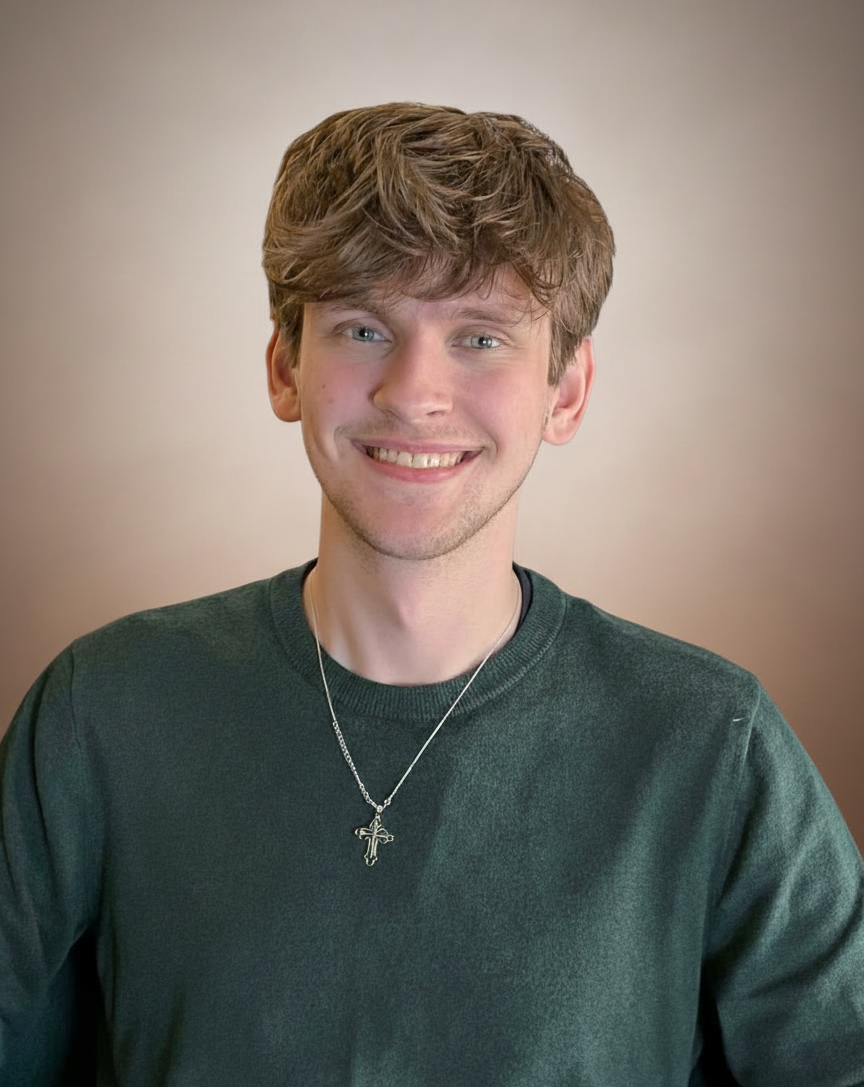
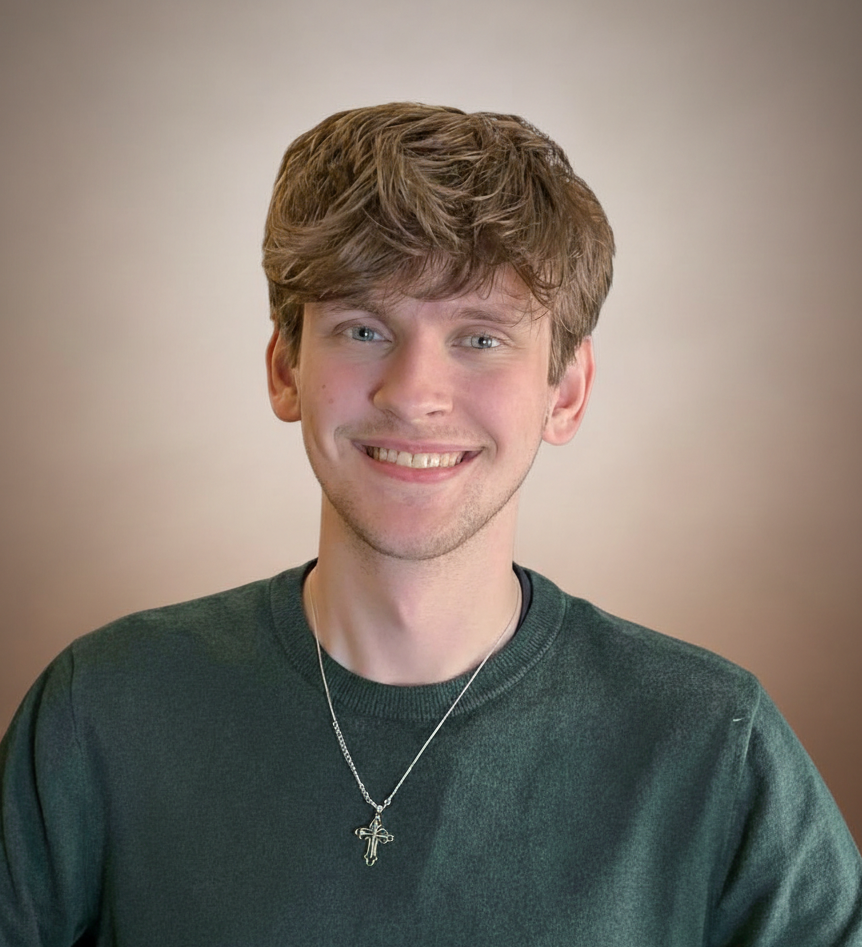
font and other stuff

Changed region(s): [[0.0, 0.0919, 1.0, 1.0], [0.1508, 0.9187, 0.2111, 1.0], [0.3921, 0.9799, 0.4223, 1.0]]

diff --git a/website_files/main.css b/website_files/main.css
@@ -1,4 +1,3 @@
-@import url('https://fonts.googleapis.com/css2?family=Noto+Sans:wght@300;400;500;600;700&family=Roboto:wght@300;400;500;700&display=swap');
 
 /* ============================================
    GLOBAL RESET & BASE STYLES
@@ -14,7 +13,7 @@ body, h1, h2, h3, h4, h5, h6, p, blockquote, pre, hr, dl, dd, ol, ul, figure {
 }
 
 body {
-    font-family: "Noto Sans", "Roboto", sans-serif;
+    font-family: "Segoe UI", system-ui, -apple-system, BlinkMacSystemFont, "Helvetica Neue", Arial, sans-serif;
     font-size: 16px;
     line-height: 1.6;
     font-weight: 300;
@@ -98,7 +97,7 @@ strong, b {
     font-size: clamp(20px, 5vw, 40px);
     white-space: nowrap;
     font-weight: 500;
-    font-family: "Noto Sans", "Roboto", sans-serif;
+    font-family: "Segoe UI", system-ui, -apple-system, BlinkMacSystemFont, "Helvetica Neue", Arial, sans-serif;
     color: #fff;
     margin: 0;
 }
@@ -128,7 +127,7 @@ strong, b {
     margin: 0;
     padding: 0;
     text-transform: uppercase;
-    font-family: "Noto Sans", "Roboto", sans-serif;
+    font-family: "Segoe UI", system-ui, -apple-system, BlinkMacSystemFont, "Helvetica Neue", Arial, sans-serif;
     list-style: none;
     margin: 0;
     padding: 0;
@@ -188,7 +187,7 @@ strong, b {
 h1 {
     letter-spacing: 0px;
     line-height: 1;
-    font-family: "Noto Sans", "Roboto", sans-serif;
+    font-family: "Segoe UI", system-ui, -apple-system, BlinkMacSystemFont, "Helvetica Neue", Arial, sans-serif;
     color: #059e8f;
     margin-bottom: -10px;
 }
@@ -282,15 +281,17 @@ h1 {
     display: block;
     height: 100%;
     overflow: hidden;
-    border-radius: 10px;
+    border-radius: 60px;
     line-height: 0;
+    box-shadow: 0 8px 24px rgba(15, 23, 42, 0.12);
 }
 
 .home-profile-photo img {
-    border-radius: 10px;
+    border-radius: 60px;
     width: 100%;
     height: 100%;
     object-fit: cover;
+    object-position: center 20%;
     display: block;
     transition: transform 0.22s ease, filter 0.22s ease;
 }
@@ -718,7 +719,7 @@ body {
     font-size: clamp(20px, 5vw, 40px);
     white-space: nowrap;
     font-weight: 500;
-    font-family: "Noto Sans", "Roboto", sans-serif;
+    font-family: "Segoe UI", system-ui, -apple-system, BlinkMacSystemFont, "Helvetica Neue", Arial, sans-serif;
     color: #fff;
     margin: 0;
 }
@@ -744,26 +745,24 @@ body {
 
 .member-card {
     text-align: center;
-    background: #fffefe;
-    border: 1px solid #edf1f4;
-    border-radius: 12px;
-    box-shadow: 0 4px 12px rgba(15, 23, 42, 0.032);
     padding: 14px 14px 18px;
 }
 
 .member-card a {
     display: block;
     overflow: hidden;
-    border-radius: 6px;
+    border-radius: 50%;
     line-height: 0;
+    box-shadow: 0 8px 24px rgba(15, 23, 42, 0.12);
 }
 
 .member-card img {
     width: 100%;
     height: auto;
-    aspect-ratio: 5 / 6;
+    aspect-ratio: 1 / 1;
     object-fit: cover;
-    border-radius: 6px;
+    object-position: center 20%;
+    border-radius: 50%;
     display: block;
     transition: transform 0.22s ease, filter 0.22s ease;
 }
@@ -819,7 +818,7 @@ body {
 
     .member-card img {
         width: 100%;
-        aspect-ratio: 5 / 6;   /* keeps consistent portrait proportions */
+        aspect-ratio: 1 / 1;   /* keeps photos circular */
         object-fit: cover;
     }
 
